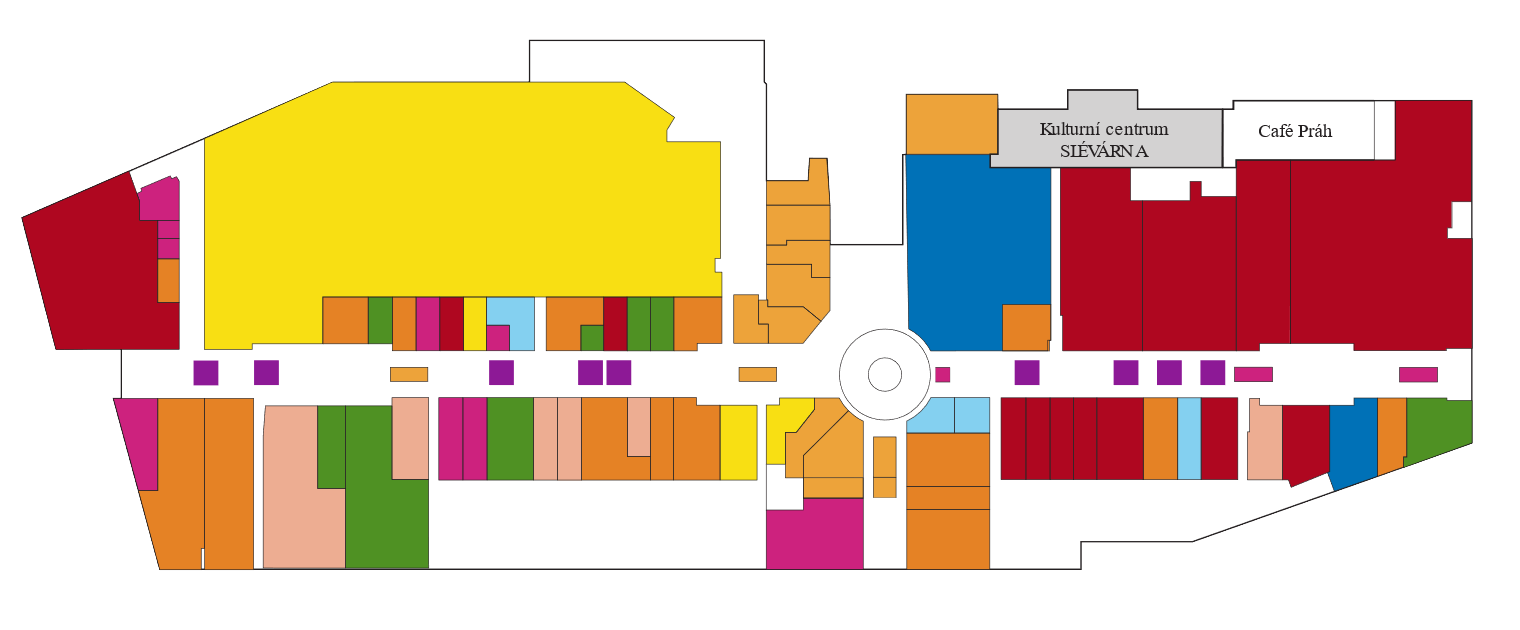
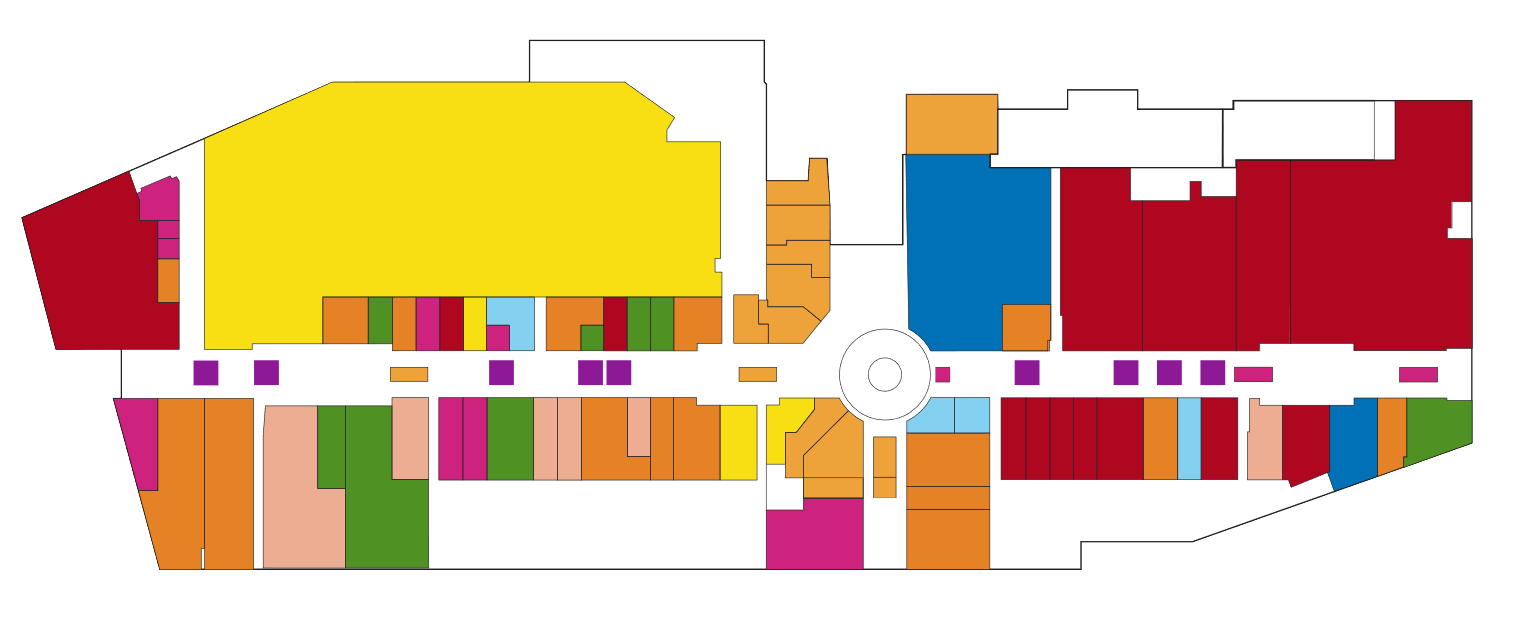
Olympia changed to Futurum

Changed region(s): [[0.6493, 0.1206, 0.8039, 0.2714], [0.8349, 0.181, 0.8658, 0.2413]]

diff --git a/nakupne_centra/StoresList.xaml b/nakupne_centra/StoresList.xaml
@@ -115,7 +115,7 @@
                             <TextBlock Text="{Binding StoreName}" Style="{StaticResource HeaderStyle}" />
                             <TextBlock Text="{Binding StoreCategory}" Style="{StaticResource SubsubheaderStyle}"/>
                         </StackPanel>
-                        <Viewbox Grid.Row="1">
+                        <Viewbox Grid.Row="1" MaxHeight="400">
                             <Grid>
                                 <Image x:Name="Map" MaxHeight="{Binding MapHeight}" VerticalAlignment="Top" HorizontalAlignment="Left" Source="{Binding Map}" Loaded="Map_Loaded" ImageOpened="Map_ImageOpened" />
                                 <Image x:Name="StorePosition" Margin="{Binding StorePosition, Converter={StaticResource CoordinatesConverter}}" Width="40" VerticalAlignment="Top" HorizontalAlignment="Left" Source="{StaticResource MapPinIcon}"/>

diff --git a/nakupne_centra/ViewModel/MainViewModel.cs b/nakupne_centra/ViewModel/MainViewModel.cs
@@ -63,7 +63,7 @@ namespace nakupne_centra.ViewModel
             }
             if (DataStorage.Centres.Count == 0)
             {
-                Uri dataUri = new Uri("ms-appx:///DataModel/CentresData.json");
+                Uri dataUri = new Uri("ms-appx:///Data/Data.json");
 
                 StorageFile file = await StorageFile.GetFileFromApplicationUriAsync(dataUri);
                 string jsonText = await FileIO.ReadTextAsync(file);
